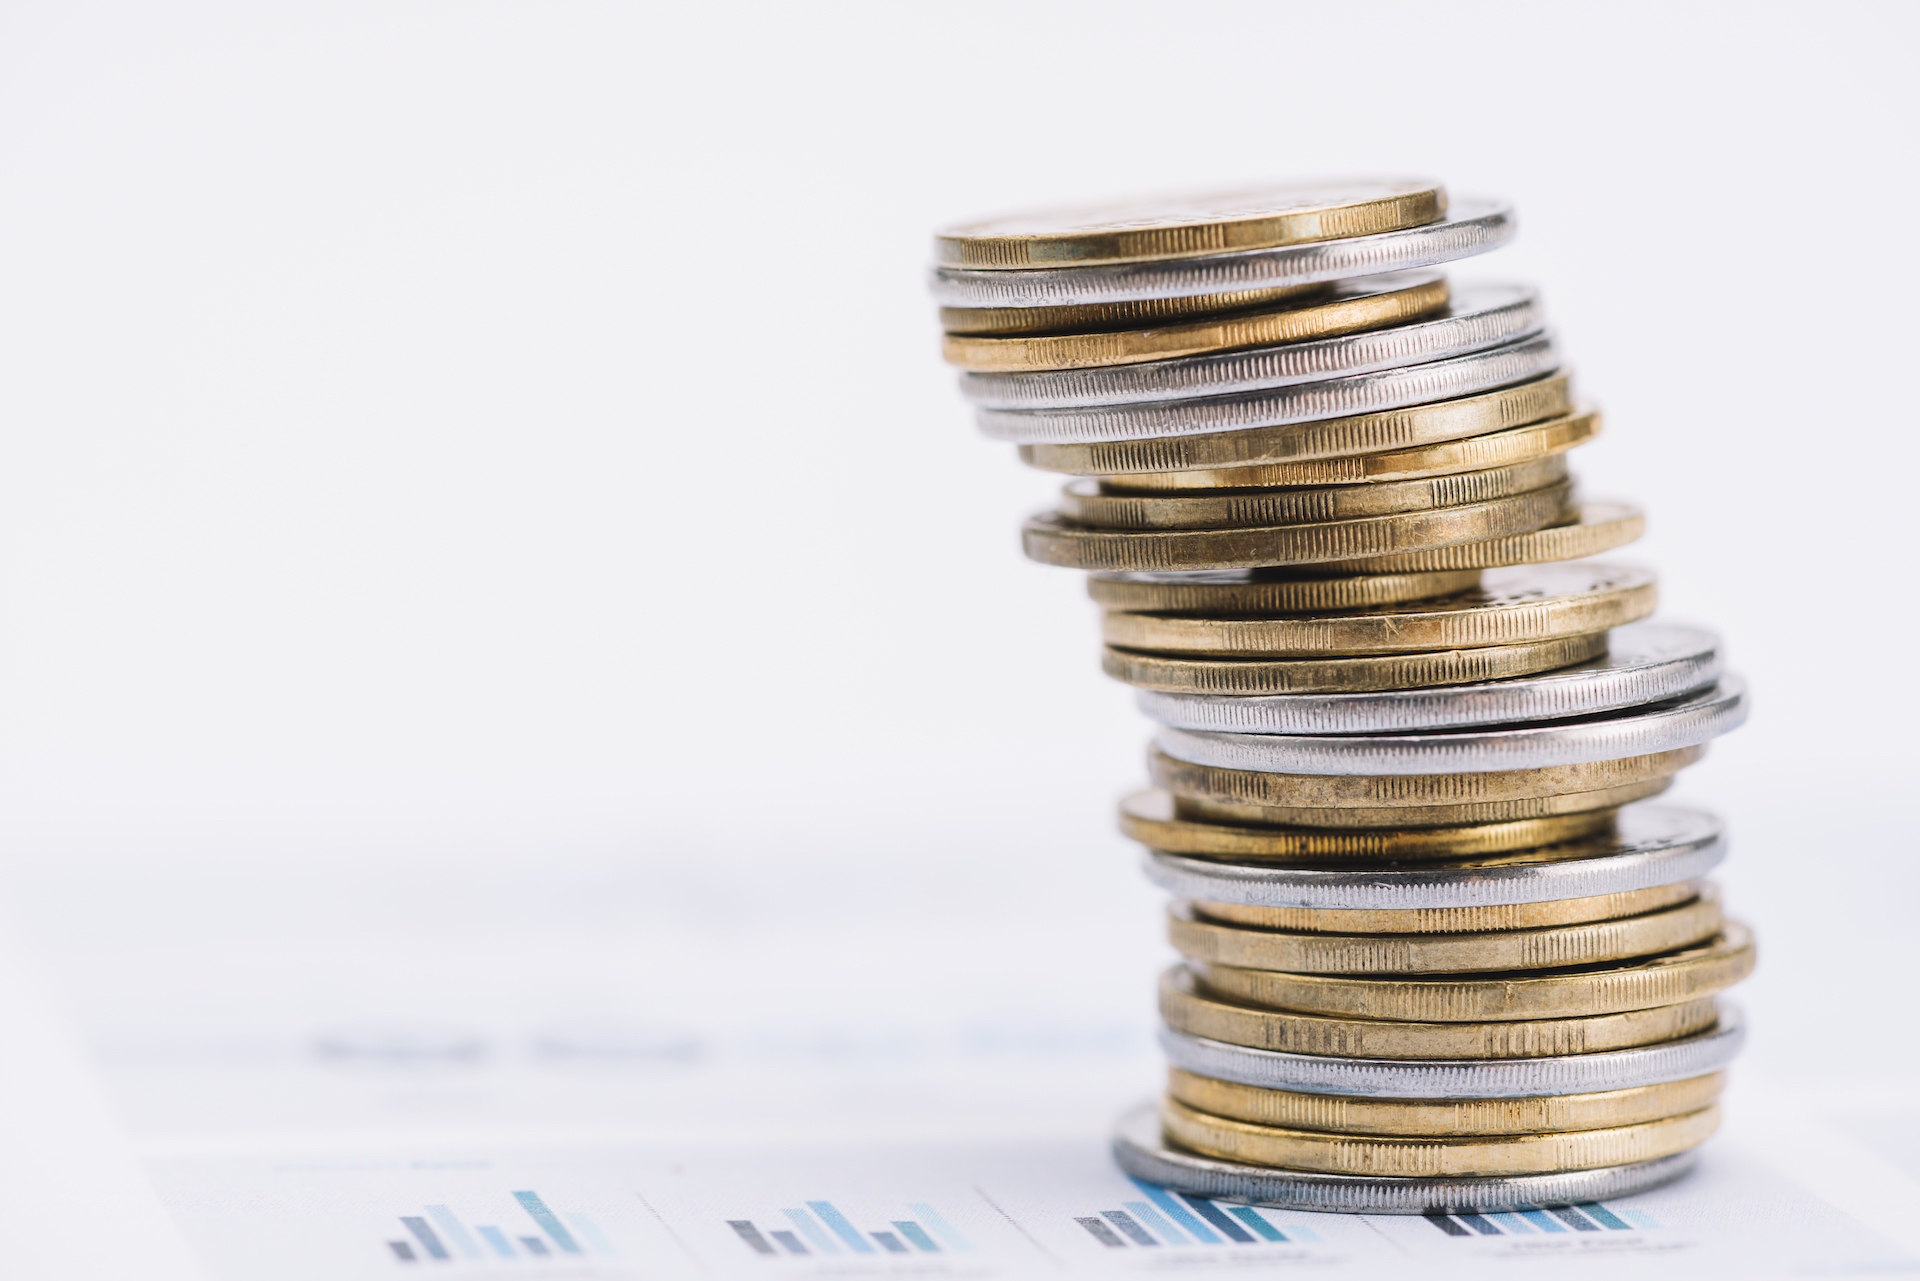
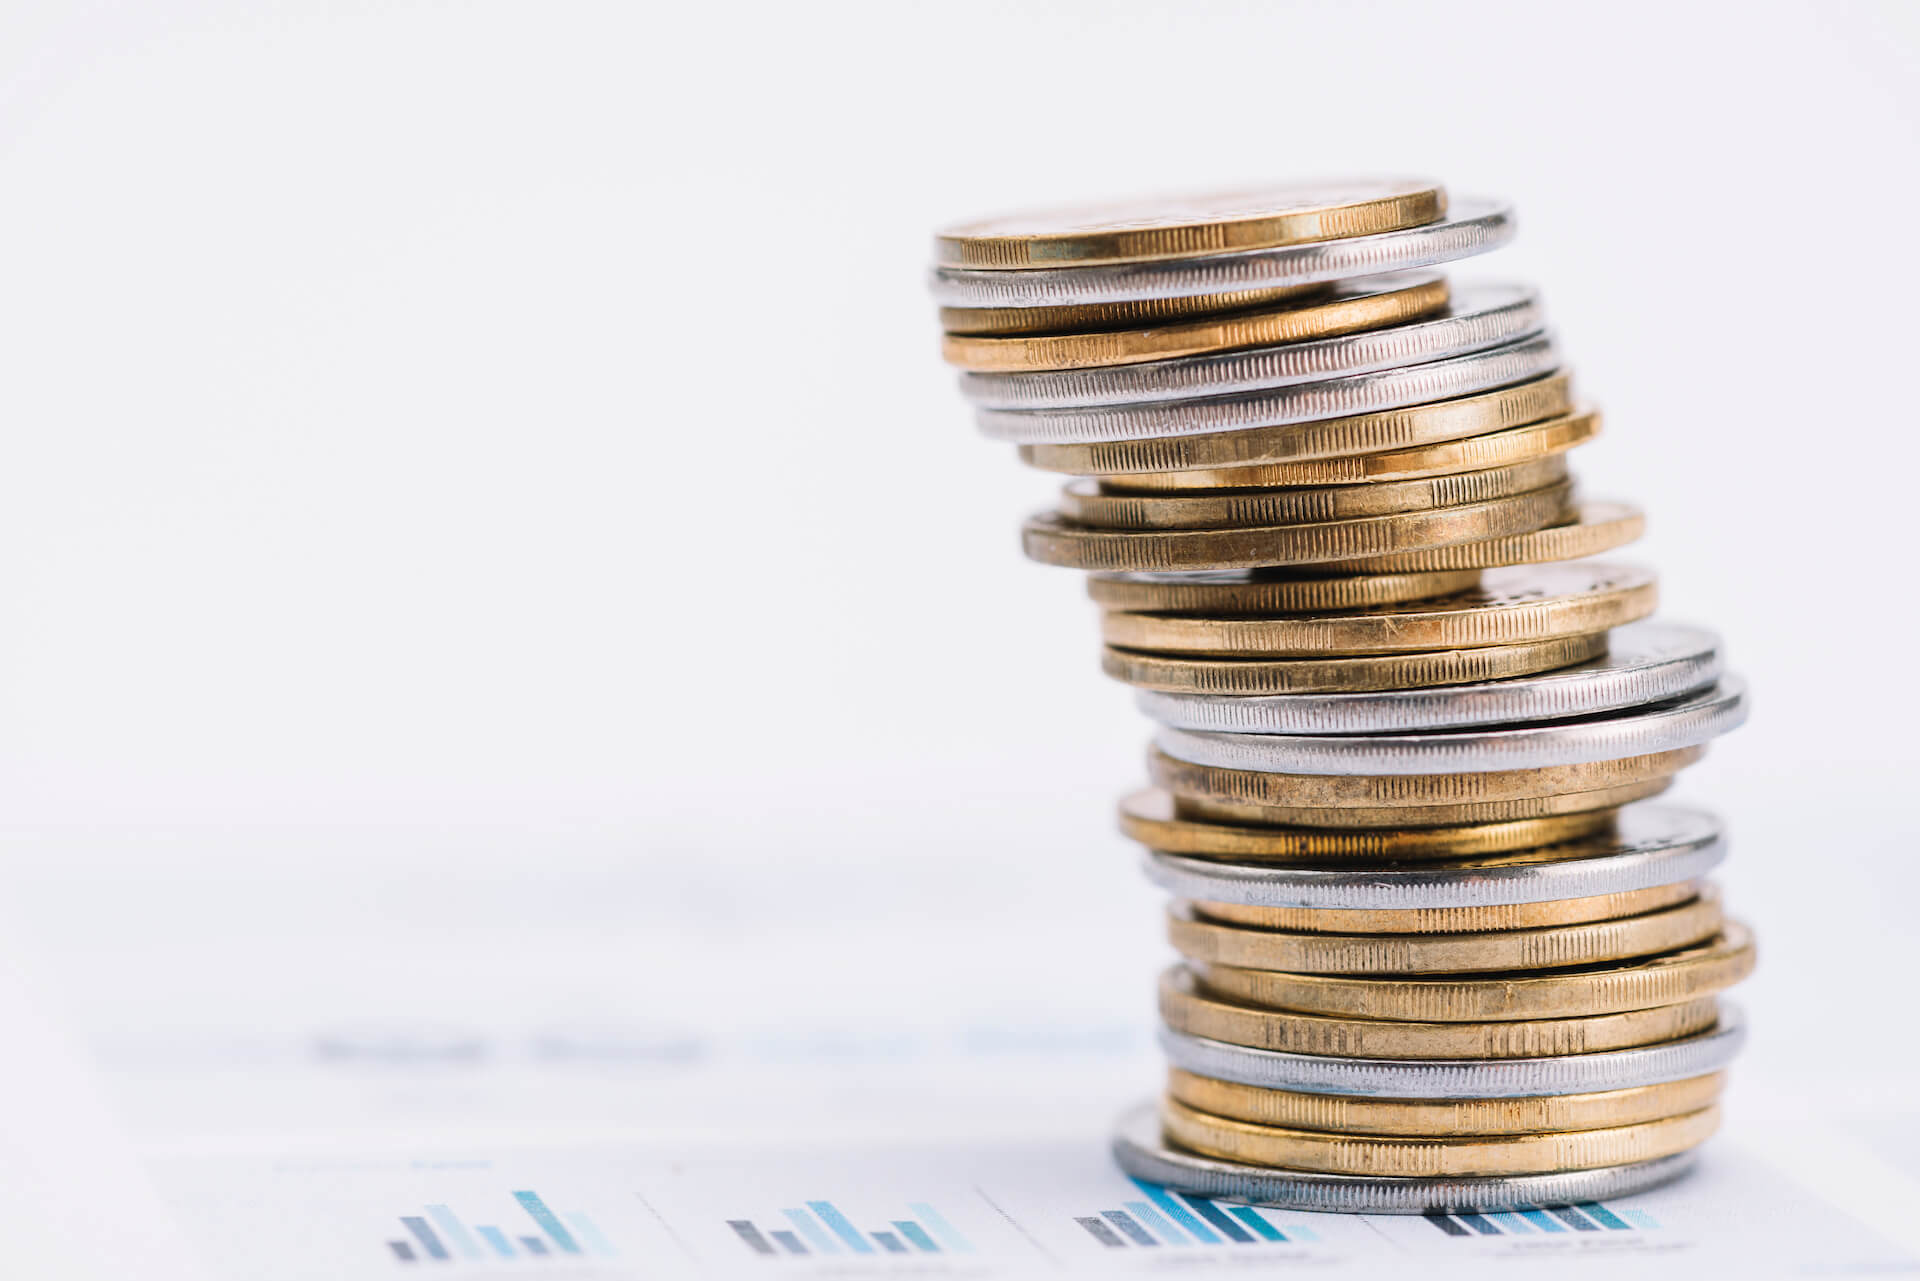
RWD admina + obsługa błędu logowania + kompresja obrazków

diff --git a/src/App.tsx b/src/App.tsx
@@ -32,27 +32,28 @@ import { connect } from 'react-redux';
 import { RootState } from './Store/Reducers/_RootReducer';
 import * as UserModule from 'Modules/UserModule';
 import ErrorHandler from './components/Layout/ErrorHandler';
+import * as H from 'history'
 
 type P = RootState;
 type PropsLocation = {
-    location: any
+    location: H.Location
 }
 type DispatchedP = {
     loginUserFromStorage: (user: UserModule.Types.User, token: string) => void;
-    setPrevPath: (prevPath:string) => void;
+    setPrevPath: (prevPath: string) => void;
 };
 type S = {
     loadingUserComplete: boolean;
-    staticPages: Array<any>;
-    // prevPath: string;
+    // staticPages: Array<string>;
+    isScrolled: boolean;
 };
 class App extends React.PureComponent<P & DispatchedP & PropsLocation, S> {
     constructor(props: P & DispatchedP & PropsLocation) {
         super(props);
         this.state = {
             loadingUserComplete: false,
-            staticPages: ['/mission','/otherterms','/termsandconditions','/privacypolicy','/vip','/subscription','/dashboard/login','/returns','/program','/formofpayments','/faq','/execusiontime','/cooperation','/complaints','/career','/aboutus'],
-            // prevPath: ''
+            // staticPages: ['/mission','/otherterms','/termsandconditions','/privacypolicy','/vip','/subscription','/contact','/dashboard/login','/returns','/program','/formofpayments','/faq','/execusiontime','/cooperation','/complaints','/career','/aboutus'],
+            isScrolled: false
         };
     }
     public componentWillMount() {
@@ -65,8 +66,9 @@ class App extends React.PureComponent<P & DispatchedP & PropsLocation, S> {
     }
   
     public componentDidUpdate() {
-        if(this.state.staticPages.includes(window.location.pathname)) {
+        if(this.props.location.pathname !== '/' && !this.state.isScrolled) {
             window.scrollTo(0,0);
+            this.setState({isScrolled: true})
         }
     }
 
@@ -74,8 +76,7 @@ class App extends React.PureComponent<P & DispatchedP & PropsLocation, S> {
         if(nextProps.location !== this.props.location) {
             const path = this.props.location.pathname;
             this.props.setPrevPath(path);
-            // console.log(this.props.viewManagementStore.prevPath)
-            // this.setState({prevPath: path.substring(0, path.lastIndexOf('/'))})
+            this.setState({isScrolled: false})
         }
     }
 

diff --git a/src/components/InvestmentsList.tsx b/src/components/InvestmentsList.tsx
@@ -34,7 +34,7 @@ class InvestmentList extends React.Component<DispatchedP & ConnectedP, any> {
     public render() {
         return (
             <div className="investmentList">
-                <h1>Lista inwestycji</h1>
+                <h2>Lista inwestycji</h2>
                 <ReactTable
                     showPagination={true}
                     sortable={true}
@@ -87,12 +87,12 @@ class InvestmentList extends React.Component<DispatchedP & ConnectedP, any> {
                         {
                             id: 'edit',
                             Cell: (props) => <span className={props.original.status === 'archived' ? 'action--disabled' : ''} onClick={() => props.original.status === 'archived' ? null : this.editProduct(props)}><i className="fas fa-edit" /></span>,
-                            width: 50
+                            width: 60
                         },
                         {
                             id: 'archive',
                             Cell: (props) => <span className={props.original.status === 'archived' ? 'action--disabled' : ''} onClick={() => props.original.status === 'archived' ? null : this.archiveProduct(props)}><i className="fas fa-trash" /></span>,
-                            width: 50
+                            width: 60
                         }
                     ]}
                 />

diff --git a/src/components/InvestmentBlock.tsx b/src/components/InvestmentBlock.tsx
@@ -5,11 +5,11 @@ import { baseURL } from 'src/Connectors/config';
 
 type P = {
     investment: InvestmentsModule.Types.Investment;
-    action: (blockRef) => void;
+    action: (blockRef:HTMLDivElement) => void;
 }
 
 export const InvestmentBlock = (props: P) => {
-    let blockRef:any = React.createRef();
+    let blockRef: any = React.createRef();
     return (
         <div className="investmentBlock" ref={(block) => {blockRef = block}}>
             <div className="investmentBlock__inner">
@@ -31,12 +31,12 @@ export const InvestmentBlock = (props: P) => {
 }
 
 
-export const InvestmentList = (props: { investmentList: Array<InvestmentsModule.Types.Investment>, action: (id: number,ref:any) => void }) => {
+export const InvestmentList = (props: { investmentList: Array<InvestmentsModule.Types.Investment>, action: (id: number,ref: HTMLDivElement) => void }) => {
     return (
         <>
         {
             props.investmentList.map((investment, i) => (
-                <InvestmentBlock key={Math.random()} investment={investment} action={(blockRef) => props.action(investment.id, blockRef)} />
+                <InvestmentBlock key={Math.random()} investment={investment} action={(blockRef: HTMLDivElement) => props.action(investment.id, blockRef)} />
             ))
         }
         </>

diff --git a/src/components/Layout/ErrorHandler.tsx b/src/components/Layout/ErrorHandler.tsx
@@ -20,6 +20,11 @@ class ErrorHandler extends React.Component<DispatchedP & ConnectedP, {}> {
 
     public render() {
         const { errorStore } = this.props;
+        const errorText = errorStore.responseError.statusText !== 'Unauthorized' ? (
+            <p>Wystąpił błąd. Spróbuj ponownie później lub skontaktuj się z nami pod adresem <a href="mailto:">kontakt@obligain.com</a></p>
+            ) : (
+                <p>Niepoprawne dane logowania</p>
+            );
         if (
             errorStore.responseError.status
         ) {
@@ -32,9 +37,7 @@ class ErrorHandler extends React.Component<DispatchedP & ConnectedP, {}> {
                             </div>
                         ) : (
                             <>
-                                <p>
-                                    Wystąpił błąd. Spróbuj ponownie później lub skontaktuj się z nami pod adresem <a href="mailto:">kontakt@obligain.com</a>
-                                </p>
+                                {errorText}
                             </>
                         )}
                     </div>

diff --git a/src/Sass/Components/dashboard.scss b/src/Sass/Components/dashboard.scss
@@ -26,12 +26,35 @@
             }
         }
         &__content {
-            margin: 50px;
+            margin: 40px 0 0 20px;
             width: 100%;
+            overflow-x: auto;
         }
     }
     &--singleInvestment {
         margin-top: 150px;
+    }
+}
+@media (max-width: 767px) {
+    .page {
+        &--dashboard {
+            flex-direction: column;
+            &__menu {
+                min-height: unset;
+                flex: 0 1 70px;
+                ul {
+                    display: flex;
+                    justify-content: space-around;
+                    li {
+                        width: unset;
+                    
+                    }
+                }
+            }
+            &__content {
+                margin: 20px 5px;
+            }
+        }
     }
 }
 .investmentBlock {

diff --git a/src/Store/Actions/UserActions.ts b/src/Store/Actions/UserActions.ts
@@ -4,6 +4,7 @@ import * as UserModule from 'Modules/UserModule';
 import * as ViewManagementModule from 'Modules/ViewManagementModule';
 import { history } from './../../App';
 import API from './../../Connectors/config';
+import * as ErrorActions from './ErrorActions';
 
 function loginUser(username: string, password: string) {
     return async dispatch => {
@@ -17,6 +18,8 @@ function loginUser(username: string, password: string) {
 
         } catch (err) {
             dispatch(loginUserFailure());
+            console.log(err.response)
+            dispatch(ErrorActions.setResponseError(err.response ? err.response : err));
             dispatch(ViewManagementModule.Actions.hideLoader())
         }
     };

diff --git a/src/Sass/_form.scss b/src/Sass/_form.scss
@@ -167,6 +167,9 @@ $input-range-track-disabled-background: $input-range-neutral-light-color !defaul
     .quarter {
         width: 25%;
         flex: 0 1 25%;
+        @media (max-width: 1200px) {
+            flex: 0 1 50%;
+        }
     }
     &--searchInvestments {
         &__range-wrapper {
@@ -223,6 +226,13 @@ $input-range-track-disabled-background: $input-range-neutral-light-color !defaul
         &__content {
             display: flex;
             flex-wrap: wrap;
+        }
+        @media (max-width: 767px) {
+            &_l,
+            &_r {
+                flex: 0 1 100%;
+                padding: 0 10px 0 0 ;
+            }
         }
     }
     &_field {

diff --git a/src/components/HomePage.tsx b/src/components/HomePage.tsx
@@ -100,10 +100,8 @@ class HomePage extends React.Component<DispatchedP & ConnectedP, S> {
         await this.props.getInvestments(query)
         this.setState({ investmentsVisible: true })
     }
-    public investmentClickAction = (id: number,ref:any) => {
-        console.log(ref.offsetTop)
+    public investmentClickAction = (id: number,ref:HTMLDivElement) => {
         sessionStorage.setItem('scrollToPosition', JSON.stringify(ref.offsetTop));
-        // this.setState({scrollToPosition: ref.offsetTop})
         history.push(`/investment/${id}`)
         
     }

diff --git a/src/components/AddInvestment.tsx b/src/components/AddInvestment.tsx
@@ -44,7 +44,7 @@ class AddInvestment extends React.Component<DispatchedP & ConnectedP & P, any> {
         }
         return (
             <div className="addInvestment">
-                <h1>{this.props.match.params.investmentId ? 'Edytuj' : 'Dodaj'} inwestycję</h1>
+                <h2>{this.props.match.params.investmentId ? 'Edytuj' : 'Dodaj'} inwestycję</h2>
                 <AddInvestmentForm onSubmit={async (data) => await (this.props.addInvestment(data))} initialValues={initialValues} />
             </div>
         )

diff --git a/src/Store/Actions/ViewManagementActions.ts b/src/Store/Actions/ViewManagementActions.ts
@@ -46,7 +46,7 @@ function setWhiteHeader(): ViewsManagementModel.SetWhiteHeader {
         type: ActionTypes.ViewManagement.SET_WHITE_HEADER
     };
 }
-function setPrevPath(prevPath:string): ViewsManagementModel.SetPrevPath {
+function setPrevPath(prevPath: string): ViewsManagementModel.SetPrevPath {
     return {
         type: ActionTypes.ViewManagement.SET_PREV_PATH,
         payload:{

diff --git a/src/components/Layout/Login.tsx b/src/components/Layout/Login.tsx
@@ -34,7 +34,7 @@ class Login extends React.Component<DispatchedP & ConnectedP, any> {
         return (
             <div className="login">
                 <div className="login__inner">
-                    <h1>Logowanie</h1>
+                    <h2>Logowanie</h2>
                     <LoginForm onSubmit={this.handleSubmit} />
                 </div>
             </div>

diff --git a/src/Sass/_base.scss b/src/Sass/_base.scss
@@ -536,8 +536,15 @@ textarea {
         padding: 15px 30px;
         background-color: rgba(red, 0.7);
         text-align: center;
+        height: 70px;
+        display: flex;
+        justify-content: center;
+        align-items: center;
         pre {
             font-size: 10px;
+        }
+        p {
+            margin-bottom: 0;
         }
     }
     &__exit {
